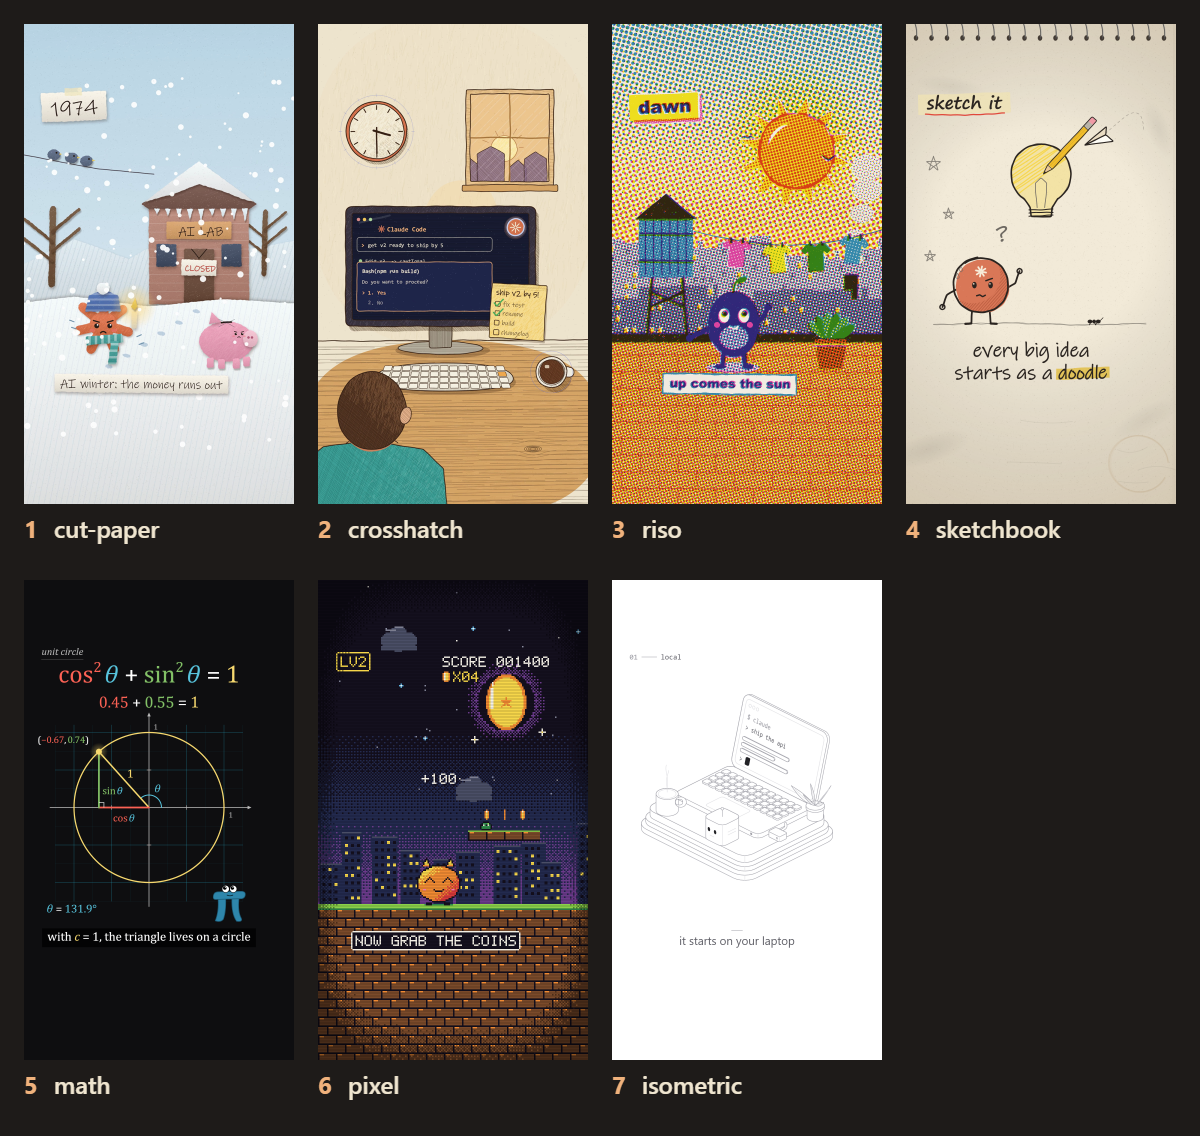
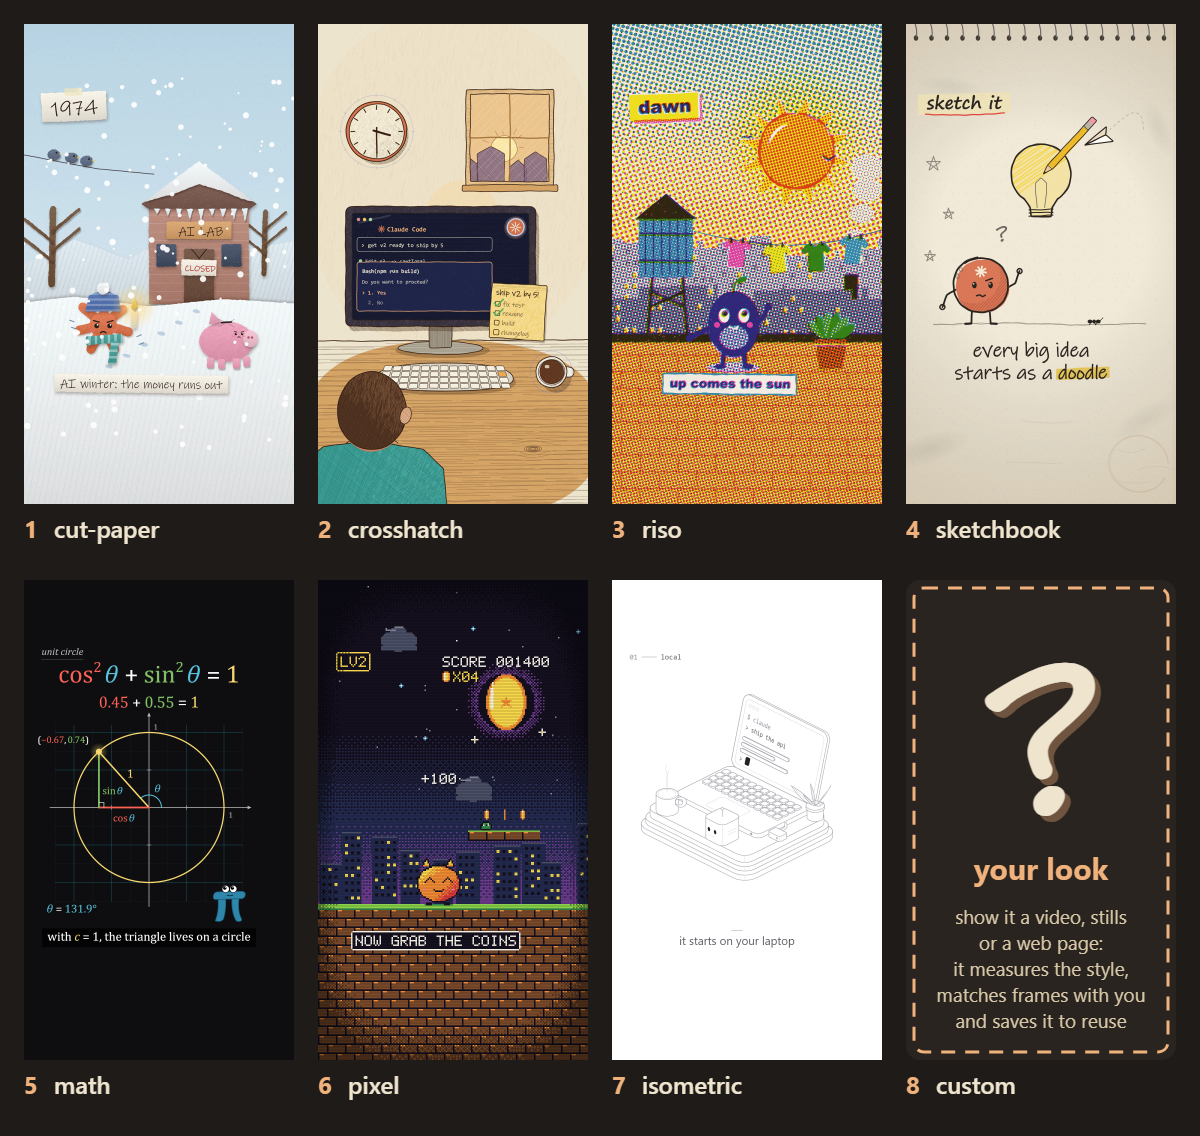
Gallery: an eighth tile, "custom" — any other look, made from your references

Changed region(s): [[0.7708, 0.5854, 0.9558, 0.9859]]

diff --git a/plugins/animate/skills/animate/intake.md b/plugins/animate/skills/animate/intake.md
@@ -23,7 +23,7 @@ Ask only what you can't infer from the request. AskUserQuestion takes up to 4 qu
 4. **The look?** *(skip the gallery when the request already names a style or brings references — go to new-style.md or the named style)* Build the gallery (`node tools/gallery.mjs <out.png> [<project>/styles]`), show it, then ask:
    - One of these: cut paper / crosshatch ink / riso print / sketchbook / math / pixel / isometric *(recommend the one that fits the subject: cut paper for histories and stories, crosshatch for Claude Code explainers, math for anything with equations or graphs, pixel for computing history, isometric for products, devices and infrastructure, riso or sketchbook for a softer editorial feel)*
    - A style they've made before (any `styles/<name>/` in their project)
-   - My own references — links or files (videos, stills, a web page): follow [new-style.md](new-style.md); keep the media local and uncommitted
+   - My own references (the gallery's last tile, "custom") — links or files (videos, stills, a web page): follow [new-style.md](new-style.md); keep the media local and uncommitted
    - Surprise me
 
 5. **A hero?** *(ask only if the format wants one)*

diff --git a/plugins/animate/skills/animate/styles/README.md b/plugins/animate/skills/animate/styles/README.md
@@ -13,6 +13,7 @@ Build the gallery of every style's sample: `node tools/gallery.mjs styles.png [<
 | [math](math/STYLE.md) | a manim-style math explainer: black stage, axes and graphs, colour-coded variables, smooth easing | on 1s | two short math explainers |
 | [isometric](isometric/STYLE.md) | isometric product line art: constant hairlines, white faces, rounded slabs, one dark accent; light or dark ground | on 1s, spring settles | this demo (the first style made with new-style.md) |
 | [pixel](pixel/STYLE.md) | low-resolution eras: draw at the true resolution, upscale nearest-neighbour | on 1s or 2s | a fixed-stage history of AI video |
+| custom | any other look: show it a video, stills or a web page and it measures the style, matches frames with you and saves `styles/<name>/` ([new-style.md](../new-style.md)) | either | woodblock prints, neon signs (test runs) |
 
 A new look gets made from the user's references with [new-style.md](../new-style.md), then saved as a style beside the project's pieces (`<project>/styles/<name>/`), where `build.mjs` finds it.
 

diff --git a/README.md b/README.md
@@ -4,7 +4,7 @@ A Claude Code skill that makes short animated videos entirely in code: one `<can
 
 ![the built-in styles](docs/styles.png)
 
-*The built-in styles, each a frame from its demo piece: cut paper, crosshatch ink, riso print, sketchbook, math, pixel, isometric.*
+*The built-in styles, each a frame from its demo piece: cut paper, crosshatch ink, riso print, sketchbook, math, pixel, isometric — and the eighth slot: any other look, made from your references.*
 
 ## How it works
 
